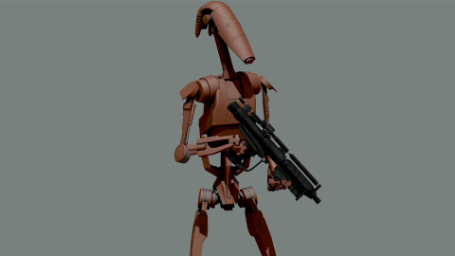
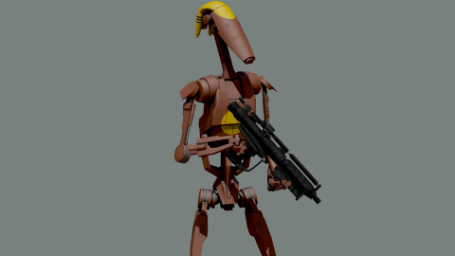
Fixed Geonosis Commander

Changed region(s): [[0.4308, 0.0, 0.5231, 0.1562], [0.4615, 0.4375, 0.5231, 0.5312]]

diff --git a/addons/factions/cis/configs/Units.hpp b/addons/factions/cis/configs/Units.hpp
@@ -414,7 +414,7 @@ class CLASS(CIS_Unit_Droid_B1_Commander_Geonosis): CLASS(CIS_Unit_Droid_B1_Comma
     uniformClass = QCLASS(CIS_Uniform_Droid_B1_Commander_Geonosis);
     editorSubcategory = QEDSUBCAT(CIS_B1s_Geonosis);
     editorPreview = EDITOR_PREVIEW(CIS_Unit_Droid_B1_Commander_Geonosis);
-    hiddenSelectionsTextures[] = {"\MRC\JLTS\characters\DroidUnits\data\Droid_B1Geonosis_co.paa"};
+    hiddenSelectionsTextures[] = {"\MRC\JLTS\characters\DroidUnits\data\Droid_B1GeonosisCommander_co.paa"};
     backpack = QCLASS(CIS_Backpack_Droid_B1_Antenna_Geonosis);
 };
 

diff --git a/addons/factions/cis/CfgWeapons.hpp b/addons/factions/cis/CfgWeapons.hpp
@@ -94,7 +94,7 @@ class CfgWeapons
     class CLASS(CIS_Uniform_Droid_B2_Jetpack): CLASS(CIS_Uniform_Droid_Base) {
         SCOPE_PUBLIC;
 
-        displayName = "[CIS] B2-RP Super Battle4 Droid";
+        displayName = "[CIS] B2-RP Super Battle Droid";
 
         class ItemInfo: ItemInfo {
             uniformClass = QCLASS(CIS_Unit_Droid_B2_Jetpack);
